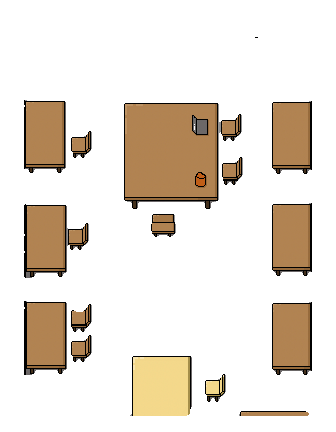
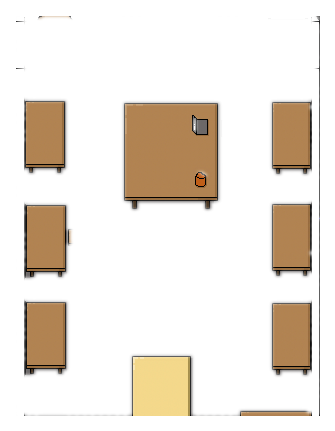
1

diff --git a/assets/js/OverworldMap.js b/assets/js/OverworldMap.js
@@ -343,9 +343,9 @@ window.OverworldMaps = {
         id: "wall6",             //chair left 1
         wall: true,
         x: utils.withGrid(3),
-        y: utils.withGrid(8),
+        y: utils.withGrid(7),
         sizex: utils.withGrid(2),
-        sizey: utils.withGrid(1),
+        sizey: utils.withGrid(2),
       }),
       wall7: new GameObject({
         id: "wall7",               //table middle 1
@@ -353,15 +353,15 @@ window.OverworldMaps = {
         x: utils.withGrid(6.5),
         y: utils.withGrid(6),
         sizex: utils.withGrid(6),
-        sizey: utils.withGrid(6),
+        sizey: utils.withGrid(6.5),
       }),
       wall8: new GameObject({
         id: "wall8",               // chair middle 1
         wall: true,
         x: utils.withGrid(8),
-        y: utils.withGrid(13.5),
+        y: utils.withGrid(12),
         sizex: utils.withGrid(2),
-        sizey: utils.withGrid(0.5),
+        sizey: utils.withGrid(2),
       }),
     },
   },
